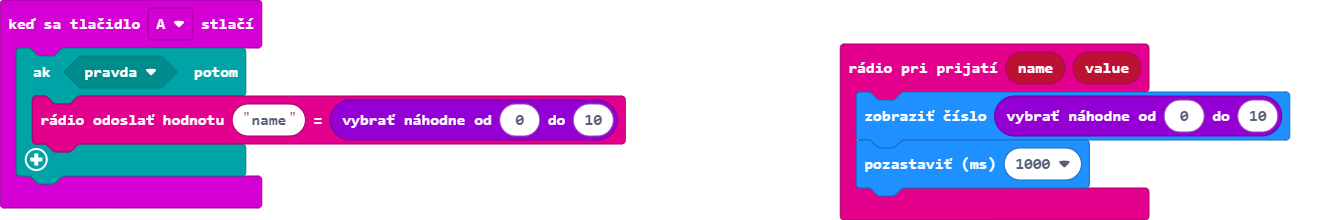
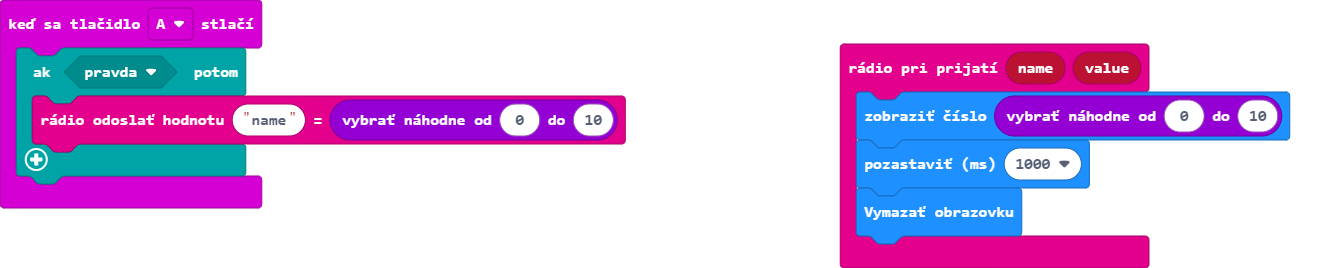
Aktualizovať main.blocks, main.ts

Changed region(s): [[0.0, 0.0273, 0.4888, 0.9545], [0.611, 0.1364, 0.9776, 0.9273]]

diff --git a/main.ts b/main.ts
@@ -6,4 +6,5 @@ input.onButtonPressed(Button.A, function () {
 radio.onReceivedValue(function (name, value) {
     basic.showNumber(randint(0, 10))
     basic.pause(1000)
+    basic.clearScreen()
 })
